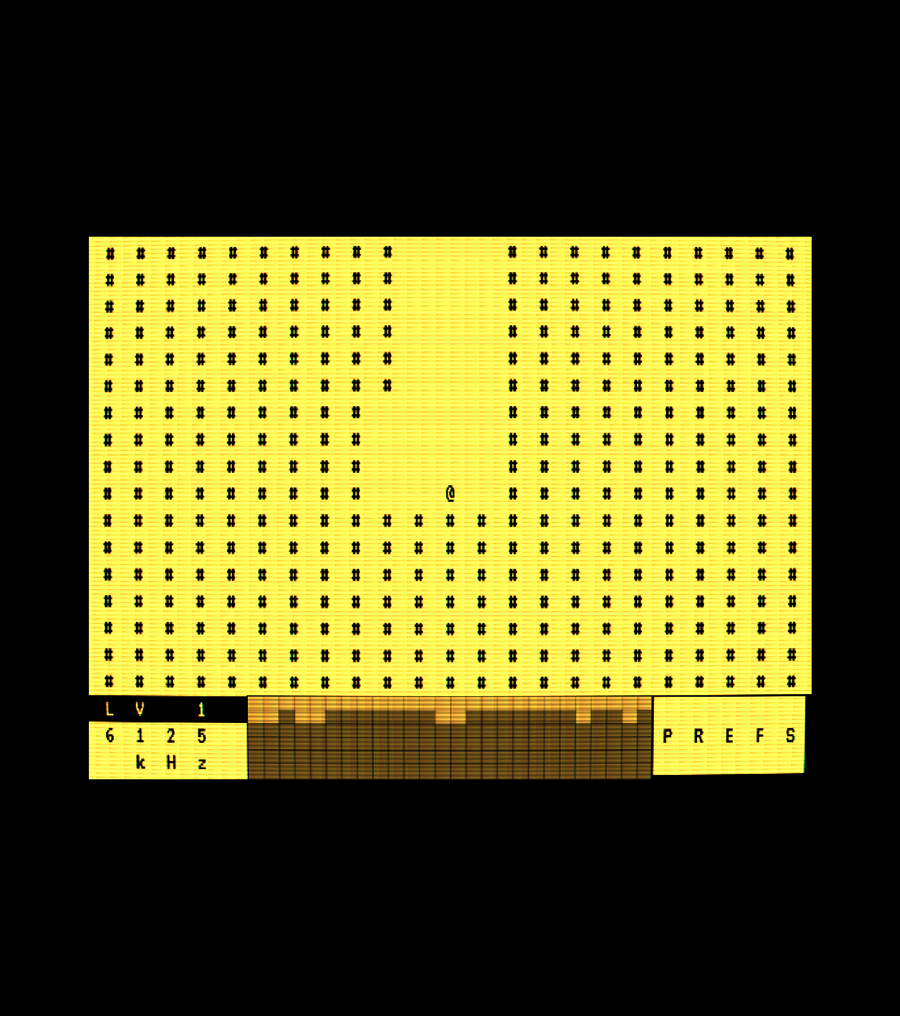
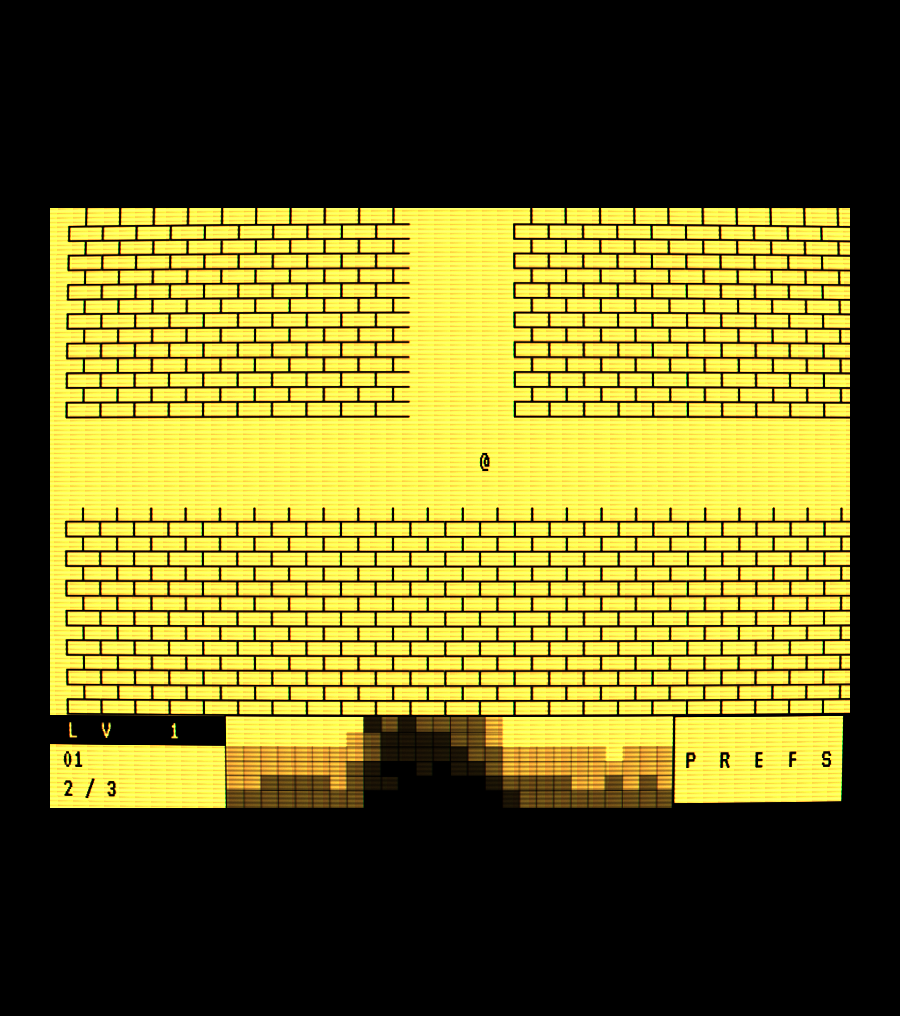
docs: reshoot the page art against the game as it now looks
Every screenshot dated from before the font, the walls and the SHOW NUMBERS
default, so the store page and the README were advertising a game with '#' for
walls and a frequency where the digits now sit. All six are retaken from the live
build: brick walls, the readout showing what has been heard, and the preferences
panel showing SHOW NUMBERS on.

Copy caught up with them. The README's alt text described a maze of '#'; the
look section now says what the walls actually are and that the game ships the
font that draws them. The publish how-to still told a future reader the face
comes from Google Fonts over the network, which stopped being true today -- that
mattered, because it was filed under things that could break on itch.

Also documents the trailer and the looping GIFs, which did not exist when that
how-to was written. itch takes a hosted link for a trailer rather than a file, so
the note says where the field is and what it accepts.

diff --git a/itch_publish_howto.md b/itch_publish_howto.md
@@ -90,6 +90,18 @@ page, below *Visibility & access* — widen the window if you'd rather see it be
 - Screenshots only render on the public page if the theme puts them there: **View page →
   Edit theme → Layout → Sidebar**. Any other layout hides them.
 
+### 6b. Trailer and loops
+
+`./post.sh` builds these into `clips/out/` (gitignored -- they are rebuilt, not stored).
+
+- **Trailer**: `trailer.mp4`, ~44s. itch takes a **link**, not a file: the trailer field
+  accepts YouTube, Vimeo or SketchFab URLs, so it has to be hosted there first. The field
+  is under *Edit game -> Details*. A trailer also lights up the "Watch trailer" button on
+  grid listings.
+- **Looping GIFs**: `core-loop.gif`, `pulse.gif` -- small enough to autoplay, and they can
+  go straight into the page body or a devlog, which takes image uploads directly.
+- **Vertical cuts**: `*-9x16.mp4` are for short-video feeds off-site, not for itch.
+
 ### 7. Theme — banner, background, colors
 
 Save the page first, then **View page → Edit theme** (the theme editor lives on the public
@@ -167,5 +179,7 @@ butler push dist/finding_numbers.zip <your-itch-username>/finding-numbers:html5
 - **Audio needs a gesture.** The station stays silent until the first tap/keypress — this
   is the browser's autoplay policy, not a bug. The "click to play" embed option makes
   that expectation obvious to players.
-- **The VT323 font loads from Google Fonts** over the network. It renders online (itch is
-  online); a monospace fallback covers any hiccup.
+- **The font ships with the game** (`assets/fonts/station-grid.woff2`, built by
+  `make_font.py`). Nothing is fetched from a CDN, so the walls draw correctly offline and
+  on a first load with a cold network. It carries block and masonry glyphs no stock face
+  has -- a fallback would draw the walls in a second typeface, or not at all.

diff --git a/README.md b/README.md
@@ -35,7 +35,7 @@ exit on you a few times before settling.
 </td>
 <td width="66%" valign="top">
 
-<img src="docs/img/gameplay.png" width="600" alt="An amber character-mode screen: a maze of # walls with an @ player, a live spectrogram, and a station frequency on the dial">
+<img src="docs/img/gameplay.png" width="600" alt="An amber character-mode screen: a brick-walled maze with an @ player, the digits heard so far, and a live spectrogram in the HUD">
 
 </td>
 </tr>
@@ -67,6 +67,11 @@ tuned to frequencies that really broadcast into the dark.
 One font, one phosphor color, one glyph grid — a text-mode monitor bent through a
 WebGL CRT filter, the signal scrolling as a live spectrogram in the HUD. Dial the
 decay up until the picture barely holds.
+
+Every level wears its own walls: brick, dressed stone, riveted plate, three
+scales of checker, static, shear, cage. The game ships the font that draws them
+(`make_font.py` builds it), because no stock face has the glyphs and a fallback
+would put a second typeface in the middle of the grid.
 
 </td>
 <td width="66%" valign="top">
@@ -140,6 +145,8 @@ step**, so any static file server works too.
 ## Built with
 
 - **No build step** — vanilla ES modules, HTML, and CSS.
+- **Its own font** — VT323 plus block and masonry glyphs drawn to the character
+  cell, self-hosted, so a wall tiles seamlessly and never falls back.
 - **WebAudio** for the station; a seeded mulberry32 RNG generates the maze, so
   every run is reproducible from its seed.
 - Tests: `node --test` for the game logic (`npm test`).

diff --git a/itch_page_description.md b/itch_page_description.md
@@ -9,7 +9,9 @@ maps cleanly onto what it allows.
 
 - **Cover image**: `docs/img/cover.png` (630×500) → *Edit game → Cover image*.
 - **Screenshots**: add `docs/img/gameplay.png`, `jukebox.png`, `signal-lost.png`,
-  `light-mode.png` under *Screenshots*.
+  `light-mode.png`, `preferences.png` under *Screenshots*.
+- **Trailer**: `clips/out/trailer.mp4` (~44s, built by `./post.sh`). itch takes a hosted
+  link rather than a file -- see `itch_publish_howto.md` section 6b.
 - **Tagline** (the one-liner under the title): `Navigate a maze by ear — a number station bleeding through the static, and rooms that don't always stay where you left them.`
 
 ---
@@ -42,6 +44,9 @@ reach the source of the transmission — it will pull you somewhere new.
 - **A character-mode CRT** — one font, one phosphor color, one glyph grid, bent through
   a WebGL CRT filter, with the signal scrolling as a live spectrogram. Dial the decay up
   until the picture barely holds.
+- **Walls that tell you how deep you are** — every level wears its own: brick near the
+  surface, then dressed stone, riveted plate, checkers that coarsen as they go, static,
+  shear, and finally a cage.
 - **32 levels of decay** — six languages, more doors, and walls that lose their nerve
   the deeper you go. Thirty-two levels down, the signal can barely hold itself together.
 
